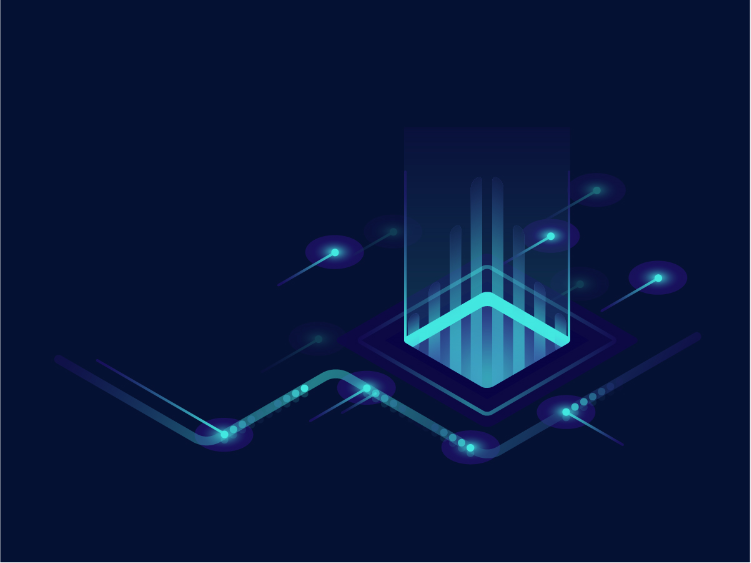
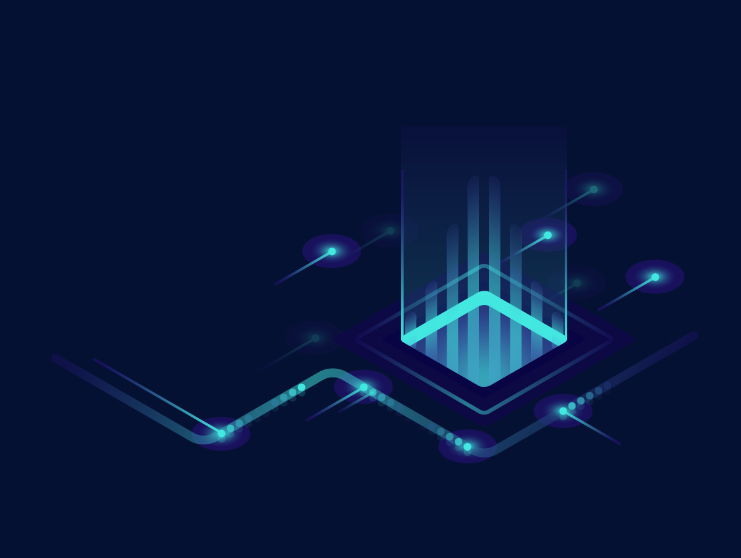
fix features svg

diff --git a/front-end/src/landing/Landing.jsx b/front-end/src/landing/Landing.jsx
@@ -19,14 +19,13 @@ import Icon10 from './Icons 2/Mask Group 10.svg'
 import Icon11 from './Icons 2/Mask Group 11.svg'
 import Icon12 from './Icons 2/Mask Group 12.svg'
 import Icon13 from './Icons 2/Mask Group 13.svg'
-import Icon14 from './Icons 2/Mask Group 14.svg'
+import Icon14 from './Icons 2/Mask Group 14.svg';
 
-import bgFeatures from '../static/images/backgrouds/bgFeatures.svg';
 import icNeon from '../static/images/backgrouds/ic_chip_neon.png';
-
 
 import {TESTIMONIALS} from '../shared/testimonials.jsx';
 import * as brands from './BrandIcons/index';
+
 
 function MyCard(props){
     return (
@@ -44,12 +43,16 @@ function MyCard(props){
     )
 }
 
-export class Landing extends Component {
+class Landing extends Component {
     render() {
+        var svgWidth=1920;
+        if(window.innerWidth>1920){
+            svgWidth=window.innerWidth;
+        }
         return (
             <div className="landing">
-                <div className="container">
 
+                <div className="container">
                     <div className="row first my-5">
                         <div className="col-12 col-lg-6 py-5">
                             <div className="welcome">
@@ -119,65 +122,66 @@ export class Landing extends Component {
                             </div>
                         </div>
                     </div>
-                    </div>
-                    <div className="row flex forth mt-5 py-lg-5 justify-content-center">
-                        <div className="position-absolute overflow-hidden w-100" >
-                        <svg style={{width:"1920px"}} height="864.684" viewBox="0 0 1922 864.684">
-                            <defs>
-                                <clipPath id="clip-path">
-                                <path id="Path_266" data-name="Path 266" d="M-318.159-17.14l1920-91.457V715.5l-1920-184.812Z" transform="translate(318.159 2059)" fill="#051133"/>
-                                </clipPath>
-                            </defs>
-                            <g id="Group_233" data-name="Group 233" transform="translate(0 -1950.403)">
-                                <g id="Group_232" data-name="Group 232">
-                                <path id="Path_267" data-name="Path 267" d="M-321.192,138.631l1920-247.228V301.028l-1920,455.058Z" transform="translate(323.192 2059)" fill="#f32222"/>
-                                <path id="Path_266-2" data-name="Path 266" d="M-318.159-17.14l1920-91.457V715.5l-1920-184.812Z" transform="translate(320.159 2059)" fill="#051133"/>
-                                </g>
-                                <g id="Mask_Group_31" data-name="Mask Group 31" clip-path="url(#clip-path)">
-                                <g id="Group_234" data-name="Group 234" transform="translate(-5.126 59)">
-                                    <image id="Artboard_105_2x-100" data-name="Artboard 105@2x-100" width="750.128" height="562.752" transform="translate(1203 2198.307)" href={icNeon} />
-                                </g>
-                                </g>
-                            </g>
-                            </svg>
-                        
-                        </div>
-                        {/* <div className="position-absolute w-100 d-flex justify-content-end">
-                            <img src={icNeon} alt=""/>
-                        </div> */}
-                        <div className="container landing-benefits p-0">
-                            <div className="col-12 text-center text-primary text-uppercase">
-                                Features
-                            </div>
-                            <div className="col-12 my-2 text-center text-white display5">
-                                Why Choose Us?
-                            </div>
-                            <div className="col-lg-10 offset-lg-1 col-12 mb-3 ">
-                                <div className="row no-gutters">
-                                    <div className="col-xl-4 px-2 col-sm-6 col-12 ">
-                                        <MyCard icon={<Image src={Icon18}/>} title="24/7 Industry Support" children="Lorem ipsum kasd gubergren, no sea takimata sanctus est Lorem ipsum dolor sit amet dolor sit amet, consetetur sadipscing elitr." iconBg="Green"/>
-                                    </div>
-                                    <div className="col-xl-4 px-2 col-sm-6 col-12">
-                                        <MyCard icon={<Image src={Icon19}/>} title="Dashboard Reporting" children="Lorem ipsum kasd gubergren, no sea takimata sanctus est Lorem ipsum dolor sit amet dolor sit amet, consetetur sadipscing elitr." iconBg="Green"/>
-                                    </div>
-                                    <div className="col-xl-4 px-2 col-sm-6 col-12">
-                                        <MyCard icon={<Image src={Icon20}/>} title="Wide range of services" children="Lorem ipsum kasd gubergren, no sea takimata sanctus est Lorem ipsum dolor sit amet dolor sit amet, consetetur sadipscing elitr." iconBg="Green"/>
-                                    </div>
-                                    <div className="col-xl-4 px-2 col-sm-6 col-12">
-                                        <MyCard icon={<Image src={Icon21}/>} title="Secure Transactions" children="Lorem ipsum kasd gubergren, no sea takimata sanctus est Lorem ipsum dolor sit amet dolor sit amet, consetetur sadipscing elitr." iconBg="Green"/>
-                                    </div>
-                                    <div className="col-xl-4 px-2 col-sm-6 col-12">
-                                        <MyCard icon={<Image src={Icon22}/>} title="Enhanced Performance" children="Lorem ipsum kasd gubergren, no sea takimata sanctus est Lorem ipsum dolor sit amet dolor sit amet, consetetur sadipscing elitr." iconBg="Green"/>
-                                    </div>
-                                    <div className="col-xl-4 px-2 col-sm-6 col-12">
-                                        <MyCard icon={<Image src={Icon23}/>} title="Simple Pricing" children="Lorem ipsum kasd gubergren, no sea takimata sanctus est Lorem ipsum dolor sit amet dolor sit amet, consetetur sadipscing elitr." iconBg="Green"/>
-                                    </div>
-                                </div>
-                            </div>
-                        </div>
-                    </div>
-                
+                </div>
 
+                <div className="container-fluid">
+                    <div className="row flex mt-5 py-lg-5 justify-content-center">
+                        <div className="d-flex position-absolute justify-content-center overflow-hidden w-100" >
+                            <svg  style={{width:svgWidth}} height="864.684" >
+                                <defs>
+                                    <clipPath id="clip-path">
+                                    <path id="Path_266" data-name="Path 266" d="M-318.159-17.14l3840-91.457V715.5l-3840-184.812Z" transform="translate(318.159 2059)" fill="#051133"/>
+                                    </clipPath>
+                                </defs>
+                                <g id="Group_233" data-name="Group 233" transform="translate(-5 -1950.403)">
+                                    <g id="Group_232" data-name="Group 232">
+                                    <path id="Path_267" data-name="Path 267" d="M-321.192,138.631l3840-247.228V301.028l-3840,455.058Z" transform="translate(323.192 2059)" fill="#f32222"/>
+                                    <path id="Path_266-2" data-name="Path 266" d="M-318.159-17.14l3840-91.457V715.5l-3840-184.812Z" transform="translate(320.159 2059)" fill="#051133"/>
+                                    </g>
+                                    <g id="Mask_Group_31" data-name="Mask Group 31" clip-path="url(#clip-path)">
+                                    <g id="Group_234" data-name="Group 234" transform="translate(-5.126 59)">
+                                        <image id="Artboard_105_2x-100" data-name="Artboard 105@2x-100" width="750.128" height="562.752" transform={`translate(${svgWidth-800} 2100.307)`} href={icNeon} />
+                                    </g>
+                                    </g>
+                                </g>
+                            </svg>
+                        </div>
+                    </div>
+                </div>
+                        
+                <div className="container landing-benefits">
+                    <div className="row forth">
+                    <div className="col-12 features text-center text-uppercase">
+                        Features
+                    </div>
+                    <div className="col-12 my-2 text-center text-white display5">
+                        Why Choose Us?
+                    </div>
+                    <div className="col-lg-10 offset-lg-1 col-12 mb-3 ">
+                        <div className="row no-gutters">
+                            <div className="col-xl-4 px-2 col-sm-6 col-12 ">
+                                <MyCard icon={<Image src={Icon18}/>} title="24/7 Industry Support" children="Lorem ipsum kasd gubergren, no sea takimata sanctus est Lorem ipsum dolor sit amet dolor sit amet, consetetur sadipscing elitr." iconBg="Green"/>
+                            </div>
+                            <div className="col-xl-4 px-2 col-sm-6 col-12">
+                                <MyCard icon={<Image src={Icon19}/>} title="Dashboard Reporting" children="Lorem ipsum kasd gubergren, no sea takimata sanctus est Lorem ipsum dolor sit amet dolor sit amet, consetetur sadipscing elitr." iconBg="Green"/>
+                            </div>
+                            <div className="col-xl-4 px-2 col-sm-6 col-12">
+                                <MyCard icon={<Image src={Icon20}/>} title="Wide range of services" children="Lorem ipsum kasd gubergren, no sea takimata sanctus est Lorem ipsum dolor sit amet dolor sit amet, consetetur sadipscing elitr." iconBg="Green"/>
+                            </div>
+                            <div className="col-xl-4 px-2 col-sm-6 col-12">
+                                <MyCard icon={<Image src={Icon21}/>} title="Secure Transactions" children="Lorem ipsum kasd gubergren, no sea takimata sanctus est Lorem ipsum dolor sit amet dolor sit amet, consetetur sadipscing elitr." iconBg="Green"/>
+                            </div>
+                            <div className="col-xl-4 px-2 col-sm-6 col-12">
+                                <MyCard icon={<Image src={Icon22}/>} title="Enhanced Performance" children="Lorem ipsum kasd gubergren, no sea takimata sanctus est Lorem ipsum dolor sit amet dolor sit amet, consetetur sadipscing elitr." iconBg="Green"/>
+                            </div>
+                            <div className="col-xl-4 px-2 col-sm-6 col-12">
+                                <MyCard icon={<Image src={Icon23}/>} title="Simple Pricing" children="Lorem ipsum kasd gubergren, no sea takimata sanctus est Lorem ipsum dolor sit amet dolor sit amet, consetetur sadipscing elitr." iconBg="Green"/>
+                            </div>
+                        </div>
+                    </div>
+                    </div>
+                </div>
+        
                 <div className="container-fluid brands my-5 py-2">
                     <div className="marquee">
                     <div className="justify-content-center text-center d-flex abc mx-xl-5 mx-0 scroll">
@@ -217,7 +221,6 @@ export class Landing extends Component {
                     <div className="row mb-5">
                             <Image src={Map}/>
                     </div>
-
                     <div className="row mt-lg-5 mt-2 mt-lg-5">
                         <div className="col-12 pt-3 pt-md-4 first">
                             <div className="welcome">
@@ -227,6 +230,7 @@ export class Landing extends Component {
                         </div>
                     </div>
                 </div>
+
                 <div className="container-fluid mb-2">
                     <div className="row">
                         <div className="col-12">
@@ -234,6 +238,7 @@ export class Landing extends Component {
                         </div>
                     </div>
                 </div>
+
                 <div className="container"> 
                     <div className="row my-5">
                         <div className="col-md-4 col-12 pt-md-5 third mycard ">
@@ -252,9 +257,10 @@ export class Landing extends Component {
                         </div>
                     </div>
                 </div>
+
             </div>
         )
     }
 }
 
-export default Landing
+export default Landing;

diff --git a/front-end/src/App.jsx b/front-end/src/App.jsx
@@ -13,15 +13,11 @@ class App extends Component {
 	}
 	render() { 
 		return ( 
-			<div>
-		<ThemeProvider theme={customTheme}>
-		<div className="container-fluid">
-		<CSSReset />
-		<Landing />
-		</div>
-		</ThemeProvider>
-		</div>
-		 );
+			<ThemeProvider theme={customTheme}>		
+			<CSSReset />
+			<ComponentSheet />
+			</ThemeProvider>
+		);
 	}
 }
  

diff --git a/front-end/src/scss/landing/landing.scss b/front-end/src/scss/landing/landing.scss
@@ -79,9 +79,6 @@
             text-transform: uppercase;
             color: $color-primary;
         }
-        .cards{
-            margin: auto;
-        }
     }
 
     .brands{
@@ -144,7 +141,7 @@
     }
 
     &-benefits{
-        margin-top: 160px;
+        margin-top: 130px;
     }
 
 }

diff --git a/front-end/src/scss/_typography.scss b/front-end/src/scss/_typography.scss
@@ -1,7 +1,3 @@
-.text-primary{
-    color: $color-primary !important;
-}
-
 .display1{
     font-family: Nexa Light;
     font-size: $font-size-1;
